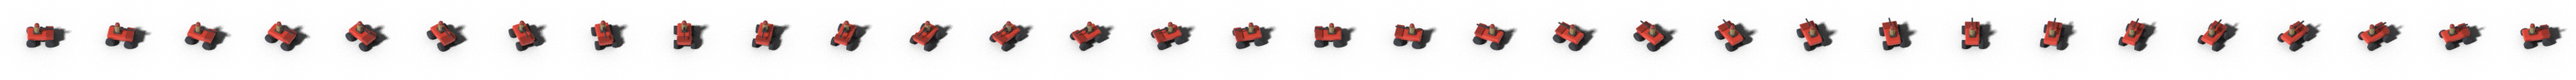
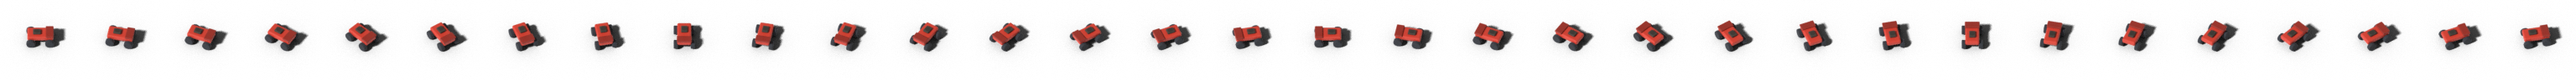
Turrets that turn, crystal light, beacons, damage smoke

Changed region(s): [[0.0, 0.3125, 1.0, 0.4375], [0.75, 0.2812, 0.8438, 0.3125], [0.2188, 0.4375, 0.25, 0.4688]]

diff --git a/dist/game.js b/dist/game.js
@@ -952,6 +952,15 @@
     seer: STRIP,
     rook: STRIP
   };
+  var UNIT_TURRETS = {
+    tank: { pivot: -1.33 },
+    quad: { pivot: -2 },
+    prismTank: { pivot: 0.67 },
+    wrecker: { pivot: -2 },
+    mortarCrawler: { pivot: -0.67 },
+    bastion: { pivot: -2 },
+    titan: { pivot: -2.67 }
+  };
   var TURRET_SPRITES = {
     turret: STRIP,
     rocketTurret: STRIP
@@ -1455,7 +1464,8 @@
     }
     trim(g);
   }
-  function muzzleFx(g, x, y, tx, ty, style, reach) {
+  function muzzleFx(g, x, y, tx, ty, style, reach, infantry = false) {
+    if (infantry) add(g, { kind: "smoke", x: x + (Math.random() - 0.5) * 4, y: y + 3, life: 0.45, size: 0.4 });
     if (style === "beam" || style === "flame") return;
     const angle = Math.atan2(ty - y, tx - x);
     const mx = x + Math.cos(angle) * reach;
@@ -1656,7 +1666,7 @@
   function fire(g, owner, x, y, weapon2, t, source) {
     const w = weapon(weapon2);
     emit(g, { kind: "shot", weapon: weapon2, x, y });
-    muzzleFx(g, x, y, t.x, t.y, w.style, source ? UNIT_STATS[source.kind].radius + 2 : 12);
+    muzzleFx(g, x, y, t.x, t.y, w.style, source ? UNIT_STATS[source.kind].radius + 2 : 12, !!source && UNIT_STATS[source.kind].armor === "infantry");
     if (w.speed === 0) {
       const look2 = w.style === "beam" ? "beam" : w.style === "flame" ? "flame" : "tracer";
       addEffect(g, { kind: look2, x: t.x, y: t.y, x2: x, y2: y, life: look2 === "beam" ? 0.14 : look2 === "flame" ? 0.18 : 0.08 });
@@ -4848,6 +4858,7 @@
     miniTiles;
     miniAge = Infinity;
     constructor(view, minimap, map, factions) {
+      this.factions = factions;
       this.sprites = new SpriteBank(factions);
       this.ctx = view.getContext("2d");
       this.mini = minimap.getContext("2d");
@@ -4864,10 +4875,16 @@
       }
     }
     sprites;
+    factions;
     /** Scenery scattered over the map, back to front. */
     props;
     /** Each prop's image and its mirror image, once loaded. */
     propImages = /* @__PURE__ */ new Map();
+    /** Crystal light: one pixel per tile, how strongly the glass lights the ground there. */
+    crystalLight = null;
+    crystalLightAt = -Infinity;
+    /** How each turreted vehicle is shown: hull along its travel, turret on its target. */
+    poses = /* @__PURE__ */ new Map();
     /** Dust kicked up behind vehicles on the sand (purely visual). */
     dust = [];
     /** Tread marks left in the sand (purely visual, kept per screen). */
@@ -4919,6 +4936,73 @@
       ctx.imageSmoothingEnabled = false;
     }
     fogImage = null;
+    /**
+     * Turreted vehicles: the hull swings round to wherever the vehicle is actually
+     * going, the turret to whatever it's shooting at (or back to the front), each
+     * at its own pace. Purely visual; the simulation keeps its single facing.
+     */
+    updatePoses(g, dt) {
+      const alive2 = /* @__PURE__ */ new Set();
+      for (const u of g.units) {
+        if (!UNIT_TURRETS[u.kind]) continue;
+        alive2.add(u.id);
+        let p = this.poses.get(u.id);
+        if (!p) {
+          p = { hull: u.angle, turret: u.angle, x: u.x, y: u.y };
+          this.poses.set(u.id, p);
+        }
+        const dx = u.x - p.x;
+        const dy = u.y - p.y;
+        p.x = u.x;
+        p.y = u.y;
+        const hullAim = dx * dx + dy * dy > 0.04 ? Math.atan2(dy, dx) : p.hull;
+        p.hull = turnTowards(p.hull, hullAim, HULL_TURN * dt);
+        const t = u.targetId !== null ? targetInfo(g, u.targetId) : null;
+        const turretAim = t ? Math.atan2(t.y - u.y, t.x - u.x) : p.hull;
+        p.turret = turnTowards(p.turret, turretAim, TURRET_TURN * dt);
+      }
+      for (const id of this.poses.keys()) if (!alive2.has(id)) this.poses.delete(id);
+    }
+    /**
+     * Rebuild the crystal light map every couple of seconds (fields grow and get
+     * mined slowly): each tile glows with the crystal around it, spread over a
+     * few tiles, so fields cast a soft cyan light on the ground and on anything
+     * standing near them.
+     */
+    updateCrystalLight(g) {
+      const m = g.map;
+      if (this.crystalLight && g.time - this.crystalLightAt < 2 && g.time >= this.crystalLightAt) return;
+      this.crystalLightAt = g.time;
+      if (!this.crystalLight) {
+        this.crystalLight = document.createElement("canvas");
+        this.crystalLight.width = m.w;
+        this.crystalLight.height = m.h;
+      }
+      const lctx = this.crystalLight.getContext("2d");
+      const img = lctx.createImageData(m.w, m.h);
+      const R = 2;
+      for (let y = 0; y < m.h; y++) {
+        for (let x = 0; x < m.w; x++) {
+          let sum = 0;
+          for (let dy = -R; dy <= R; dy++) {
+            const yy = y + dy;
+            if (yy < 0 || yy >= m.h) continue;
+            for (let dx = -R; dx <= R; dx++) {
+              const xx = x + dx;
+              if (xx < 0 || xx >= m.w) continue;
+              const s = m.spice[yy * m.w + xx];
+              if (s > 0) sum += Math.min(1, s / 400) / (1 + dx * dx + dy * dy);
+            }
+          }
+          const o = (y * m.w + x) * 4;
+          img.data[o] = 110;
+          img.data[o + 1] = 225;
+          img.data[o + 2] = 245;
+          img.data[o + 3] = Math.min(255, sum * 70);
+        }
+      }
+      lctx.putImageData(img, 0, 0);
+    }
     /** Drop a tread mark behind every vehicle that has rolled far enough since its last one. */
     layTracks(g, seen) {
       if (g.time < this.trackClock) {
@@ -5011,8 +5095,9 @@
       if (sel) drawBuildingSelection(ctx, sel);
       if (sel?.rally && sel.owner === g.local) drawRally(ctx, sel);
       for (const b of g.buildings) if (b.repairing && b.owner === g.local) drawRepairing(ctx, b, g.time);
+      this.updatePoses(g, dt);
       const units = g.units.filter((u) => onScreen(u.x, u.y) && seen(u));
-      for (const u of units) drawUnit(ctx, u, g.time, this.sprites);
+      for (const u of units) drawUnit(ctx, u, g.time, this.sprites, this.poses.get(u.id));
       for (const u of units) {
         if (g.selection.has(u.id)) {
           drawSelection(ctx, u);
@@ -5033,12 +5118,31 @@
         drawGlow(ctx, dustGlow(), d.x, d.y - a * 5, r, r * 0.8, 0.6 * (1 - a));
       }
       for (const b of shown) drawBurning(ctx, b, g.time);
+      for (const u of units) drawDamageSmoke(ctx, u, g.time);
       for (const c of g.charges) drawCharge(ctx, c, g.time);
       for (const p of g.projectiles) if (onScreen(p.x, p.y)) drawProjectile(ctx, p);
       for (const e of g.effects) {
         if (e.kind === "scorch" || e.kind === "wreck" || e.kind === "shake") continue;
         if (onScreen(e.x, e.y) || onScreen(e.x2, e.y2)) drawEffect(ctx, e);
       }
+      this.updateCrystalLight(g);
+      if (this.crystalLight) {
+        const sx = Math.max(0, Math.floor(cam.x / TILE) - 2);
+        const sy = Math.max(0, Math.floor(cam.y / TILE) - 2);
+        const sw = Math.min(m.w - sx, Math.ceil(cam.w / TILE) + 5);
+        const sh = Math.min(m.h - sy, Math.ceil(cam.h / TILE) + 5);
+        ctx.save();
+        ctx.globalCompositeOperation = "lighter";
+        ctx.globalAlpha = 0.16 + 0.04 * Math.sin(g.time * 0.8);
+        ctx.imageSmoothingEnabled = true;
+        ctx.drawImage(this.crystalLight, sx, sy, sw, sh, sx * TILE, sy * TILE, sw * TILE, sh * TILE);
+        ctx.restore();
+      }
+      const lowPower = { 0: powerInfo(g, 0).low, 1: powerInfo(g, 1).low };
+      ctx.save();
+      ctx.globalCompositeOperation = "lighter";
+      for (const b of shown) drawBeacons(ctx, b, g.time, BEACON_COLOR[this.factions[b.owner]], lowPower[b.owner]);
+      ctx.restore();
       for (const st of g.storms) drawStormShadow(ctx, st);
       if (g.fog.enabled) this.drawShroud(ctx, g, cam);
       for (const st of g.storms) drawStorm(ctx, st, g.time);
@@ -5389,6 +5493,14 @@
     ctx.fillRect(x, y, w * Math.max(0, frac), 3);
   }
   var REDUCED_MOTION = typeof matchMedia === "function" && matchMedia("(prefers-reduced-motion: reduce)").matches;
+  var HULL_TURN = 4.5;
+  var TURRET_TURN = 7;
+  var DEPTH = Math.sin(50 * Math.PI / 180);
+  function turnTowards(from, to, step) {
+    let d = ((to - from + Math.PI) % (Math.PI * 2) + Math.PI * 2) % (Math.PI * 2) - Math.PI;
+    if (Math.abs(d) <= step) return to;
+    return from + Math.sign(d) * step;
+  }
   var TRACK_STEP = 7;
   var DUST_LIFE = 0.9;
   var MAX_DUST = 400;
@@ -5502,6 +5614,35 @@
       WRECK_STRIPS.set(img, c);
     }
     return c;
+  }
+  var BEACON_COLOR = { concord: "#f2b33d", shardbound: "#6fe3f0", reclaimers: "#ff6a3d" };
+  var beaconGlow = (color) => radialGlow(`beacon${color}`, [[0, "rgba(255,255,255,1)"], [0.18, color], [1, "rgba(0,0,0,0)"]]);
+  var smokeGlow = () => radialGlow("smoke", [[0, "rgba(192,186,178,0.95)"], [0.55, "rgba(170,164,156,0.5)"], [1, "rgba(150,144,136,0)"]]);
+  function drawBeacons(ctx, b, time, color, dark) {
+    const w = b.w * TILE;
+    const corners = b.w >= 2 ? [0.2, 0.82] : [0.5];
+    corners.forEach((fx, k) => {
+      const phase = (time * (dark ? 0.5 : 0.7) + b.id * 0.37 + k * 0.5) % 1;
+      const on2 = dark ? phase < 0.5 ? 0.5 : 0 : phase < 0.12 ? 1 : phase < 0.2 ? 0.35 : 0.12;
+      if (on2 <= 0) return;
+      const x = b.tx * TILE + w * fx;
+      const y = b.ty * TILE - 4;
+      drawGlow(ctx, beaconGlow(dark ? "#e0503a" : color), x, y, 9, 9, on2);
+    });
+  }
+  function drawDamageSmoke(ctx, u, time) {
+    const s = UNIT_STATS[u.kind];
+    if (s.armor === "infantry") return;
+    const frac = u.hp / s.maxHp;
+    if (frac >= 0.35) return;
+    const heavy = frac < 0.15 ? 1.3 : 1;
+    const r = s.radius / 11;
+    for (let p = 0; p < 5; p++) {
+      const a = (time * 0.7 + p / 5 + u.id * 0.13) % 1;
+      const size = (4 + a * 10) * r * heavy;
+      drawGlow(ctx, smokeGlow(), u.x - 2 * r + a * 8, u.y - 4 - a * 28 * r, size, size, 0.95 * Math.sqrt(1 - a) * Math.min(1, a * 4 + 0.4));
+    }
+    if (frac < 0.15 && (time * 3 + u.id) % 1 < 0.15) drawGlow(ctx, flameGlow(), u.x - 2 * r, u.y - 3, 4 * r, 5 * r, 0.9);
   }
   function drawBurning(ctx, b, time) {
     const frac = b.hp / BUILDING_STATS[b.kind].maxHp;
@@ -5869,6 +6010,7 @@
       const buildings = Object.keys(BUILDING_STATS).filter((k) => !(k in TURRET_SPRITES));
       for (const owner of [0, 1]) {
         for (const kind of strips) this.load(`${kind}_${owner}`, `assets/units/${kind}_${owner}.png`);
+        for (const kind of Object.keys(UNIT_TURRETS)) this.load(`${kind}_turret_${owner}`, `assets/units/${kind}_turret_${owner}.png`);
         for (const kind of buildings) this.load(`${kind}_${owner}`, `assets/buildings/${factions[owner]}/${kind}_${owner}.png`);
       }
     }
@@ -5879,6 +6021,10 @@
     }
     get(kind, owner) {
       const img = this.images.get(`${kind}_${owner}`);
+      return img && img.complete && img.naturalWidth > 0 ? img : null;
+    }
+    turret(kind, owner) {
+      const img = this.images.get(`${kind}_turret_${owner}`);
       return img && img.complete && img.naturalWidth > 0 ? img : null;
     }
   };
@@ -5901,9 +6047,19 @@
     return (heavy ? 3 : 1) * (1 - since / RECOIL_TIME);
   }
   var RECOIL_TIME = 0.16;
-  function drawUnit(ctx, u, time, sprites) {
+  function drawUnit(ctx, u, time, sprites, pose) {
     const sheet = UNIT_SPRITES[u.kind];
     const img = sheet && sprites.get(u.kind, u.owner);
+    const turretInfo = UNIT_TURRETS[u.kind];
+    const turretImg = turretInfo && sprites.turret(u.kind, u.owner);
+    if (sheet && img && pose && turretInfo && turretImg) {
+      const kick = recoil(u);
+      drawStrip(ctx, img, sheet, pose.hull, u.x, u.y);
+      const px = u.x + Math.cos(pose.hull) * turretInfo.pivot - Math.cos(pose.turret) * kick;
+      const py = u.y + (Math.sin(pose.hull) * turretInfo.pivot - Math.sin(pose.turret) * kick) * DEPTH;
+      drawStrip(ctx, turretImg, sheet, pose.turret, px, py);
+      return;
+    }
     if (sheet && img) {
       if (u.kind === "harvester" && u.harvest === "harvesting") {
         ctx.save();
